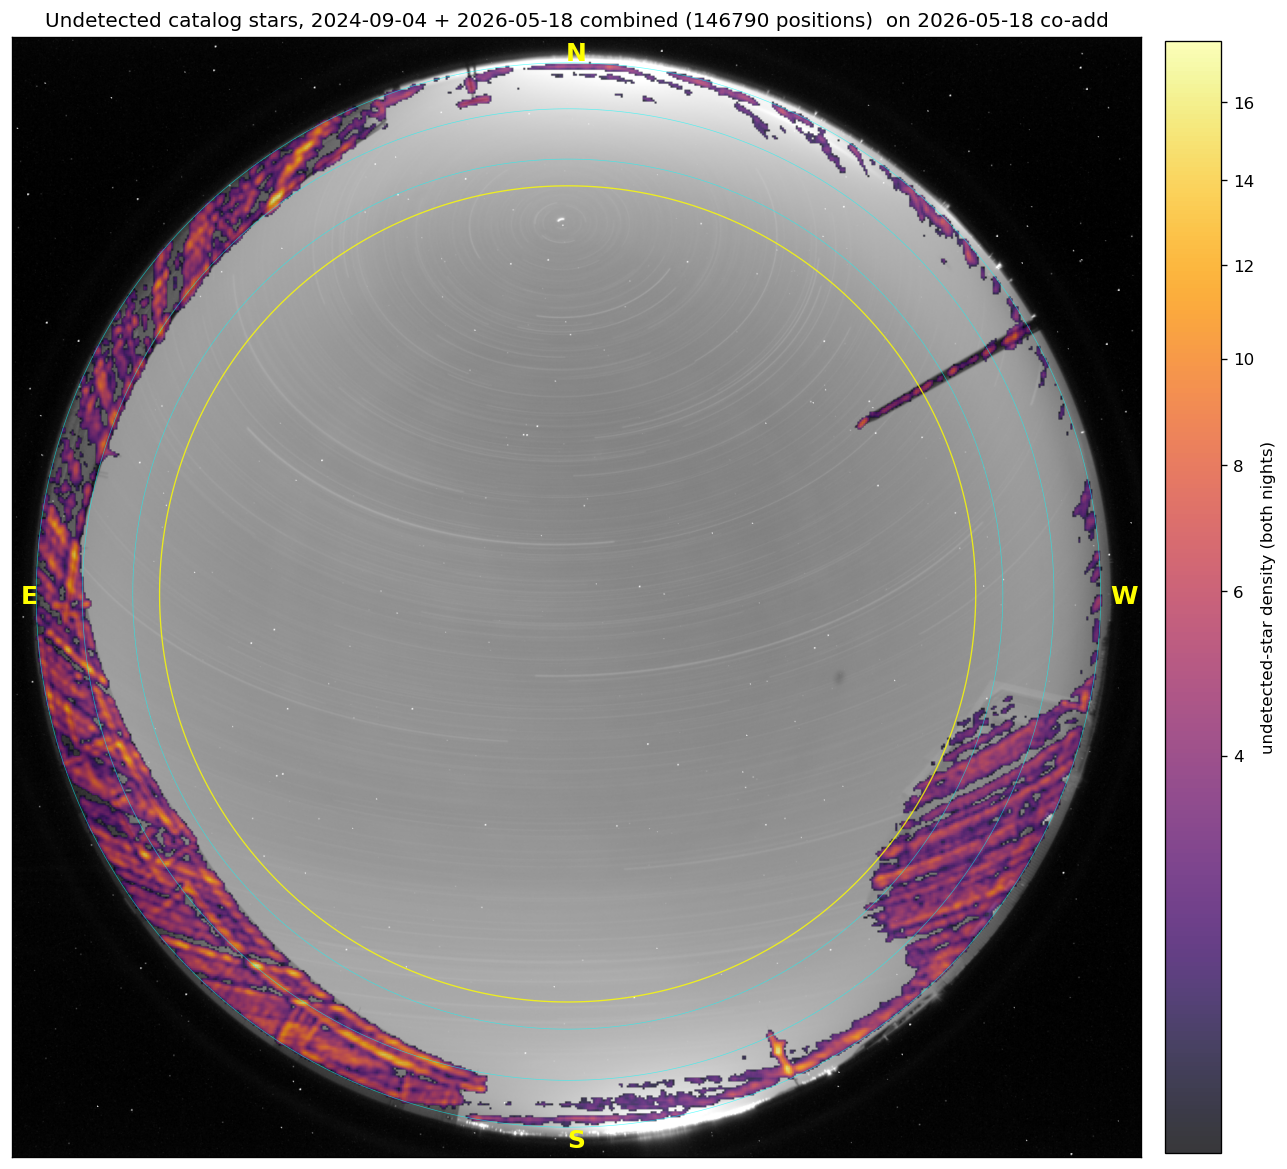
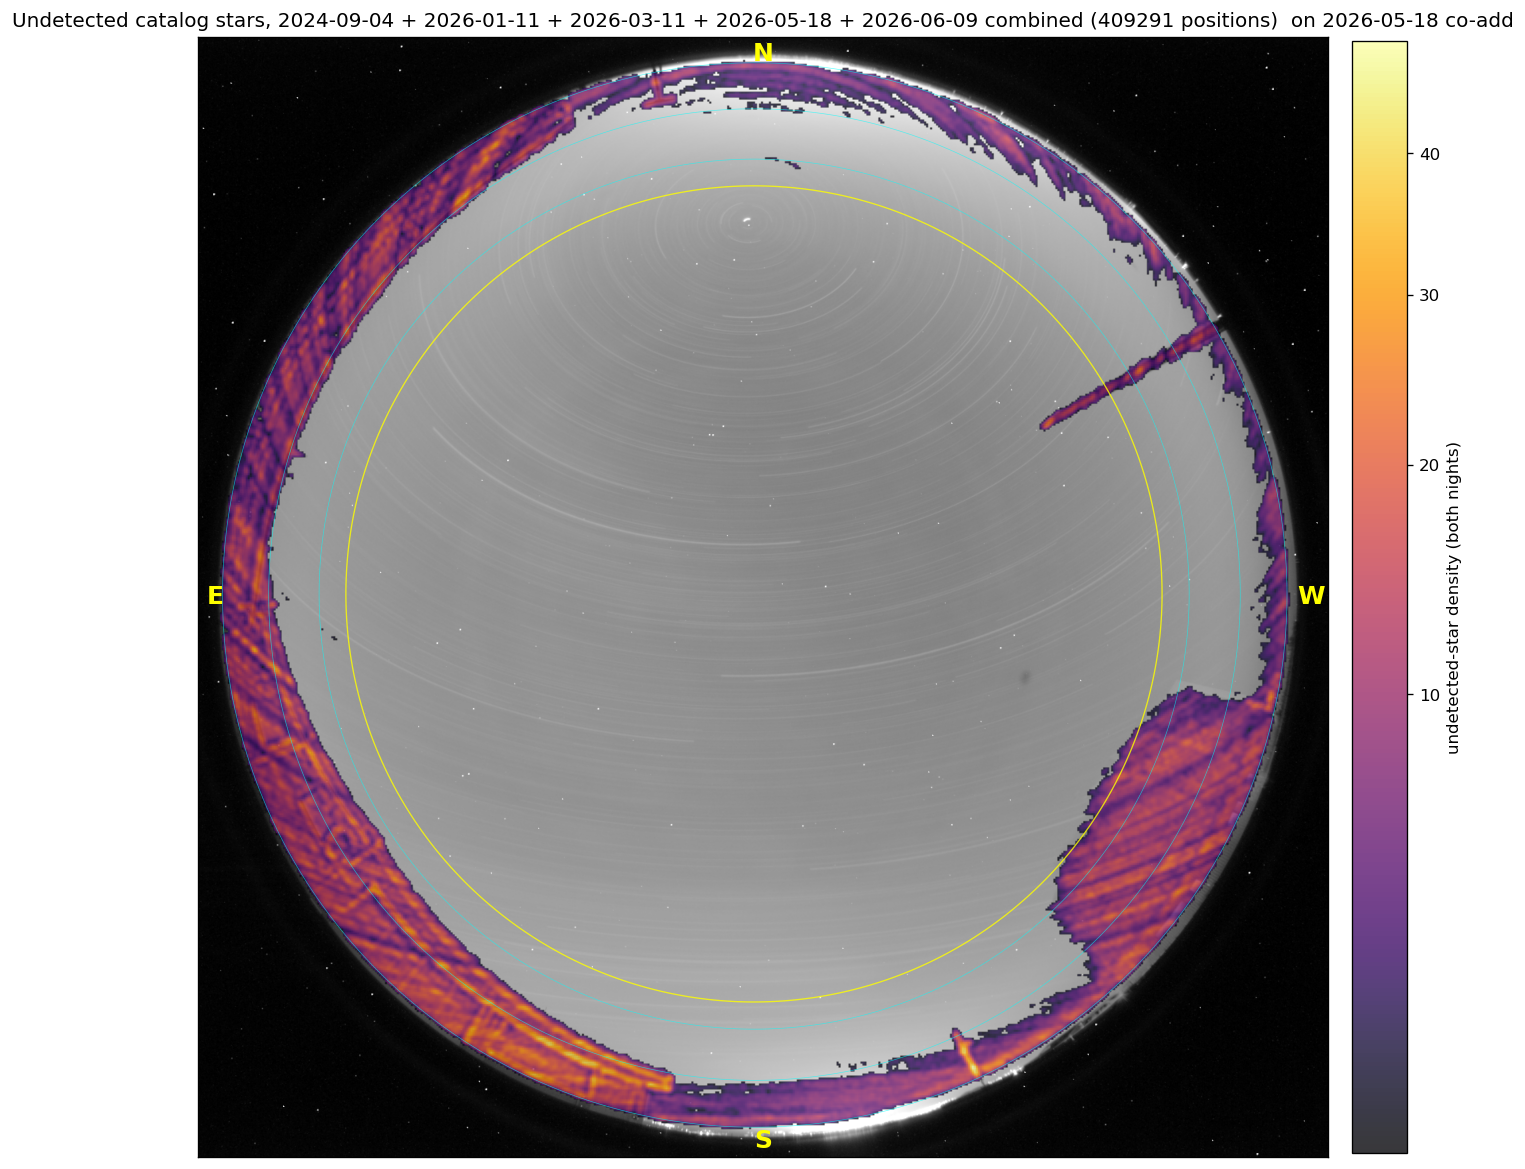
alcor: extend undetected-star horizon probe to five nights
Add 2026-01-11, 2026-03-11, and 2026-06-09 to the undetected-star density map
(now 2024-09-04 + four 2026 nights, 409,291 non-detections), and build the title
from the NIGHTS list instead of hardcoding it. More nights = star arcs sweeping
the rooflines from more RAs, sharpening the building/lightning-rod/weather-mast/
GPS-antenna silhouettes. The combined heatmap is a good starting mask for
cloud-extinction maps. Methodology unchanged: every flux_g_ap<=0 non-detection,
no airmass cut.

diff --git a/docs/scripts/horizon_undetected_stars.py b/docs/scripts/horizon_undetected_stars.py
@@ -9,8 +9,8 @@ building/terrain, below the horizon, or lost in cloud). Accumulated over a whole
 night, the undetected positions trace the obstruction silhouette directly, because
 the building blocks each star as its arc sweeps behind the roofline.
 
-Both nights' non-detections are combined onto one co-add. The WCS is stable to
-~1 px between the 2024 and 2026 epochs, so the raw pixel positions are stacked
+All nights' non-detections are combined onto one co-add. The WCS is stable to
+~1 px across the 2024 and 2026 epochs, so the raw pixel positions are stacked
 directly (no reprojection). For definition the points are rendered as a smoothed
 2D-density heatmap with a low threshold, which sharpens the obstruction edges and
 suppresses the sparse interior speckle (faint-limit / transient-cloud misses).
@@ -40,7 +40,10 @@ OUT = os.path.normpath(os.path.join(os.path.dirname(__file__), "..", "gplots"))
 
 NIGHTS = [
     ("2024-09-04", os.path.expanduser("~/MMT/skycam_data/2024-09-04")),
+    ("2026-01-11", "/Volumes/Samsung_4TB/skycam/2026-01-11"),
+    ("2026-03-11", "/Volumes/Samsung_4TB/skycam/2026-03-11"),
     ("2026-05-18", "/Volumes/Samsung_4TB/skycam/2026-05-18"),
+    ("2026-06-09", "/Volumes/Samsung_4TB/skycam/2026-06-09"),
 ]
 TARGET = "2026-05-18"   # co-add to display (WCS ~1 px stable between epochs)
 
@@ -123,7 +126,8 @@ def main():
                 fontsize=15, ha="center", va="center", weight="bold")
     cb = fig.colorbar(im, ax=ax, fraction=0.046, pad=0.02)
     cb.set_label("undetected-star density (both nights)")
-    ax.set_title(f"Undetected catalog stars, 2024-09-04 + 2026-05-18 combined "
+    nights_label = " + ".join(n for n, _ in NIGHTS)
+    ax.set_title(f"Undetected catalog stars, {nights_label} combined "
                  f"({len(ux)} positions)  on {TARGET} co-add")
     ax.set_xticks([])
     ax.set_yticks([])